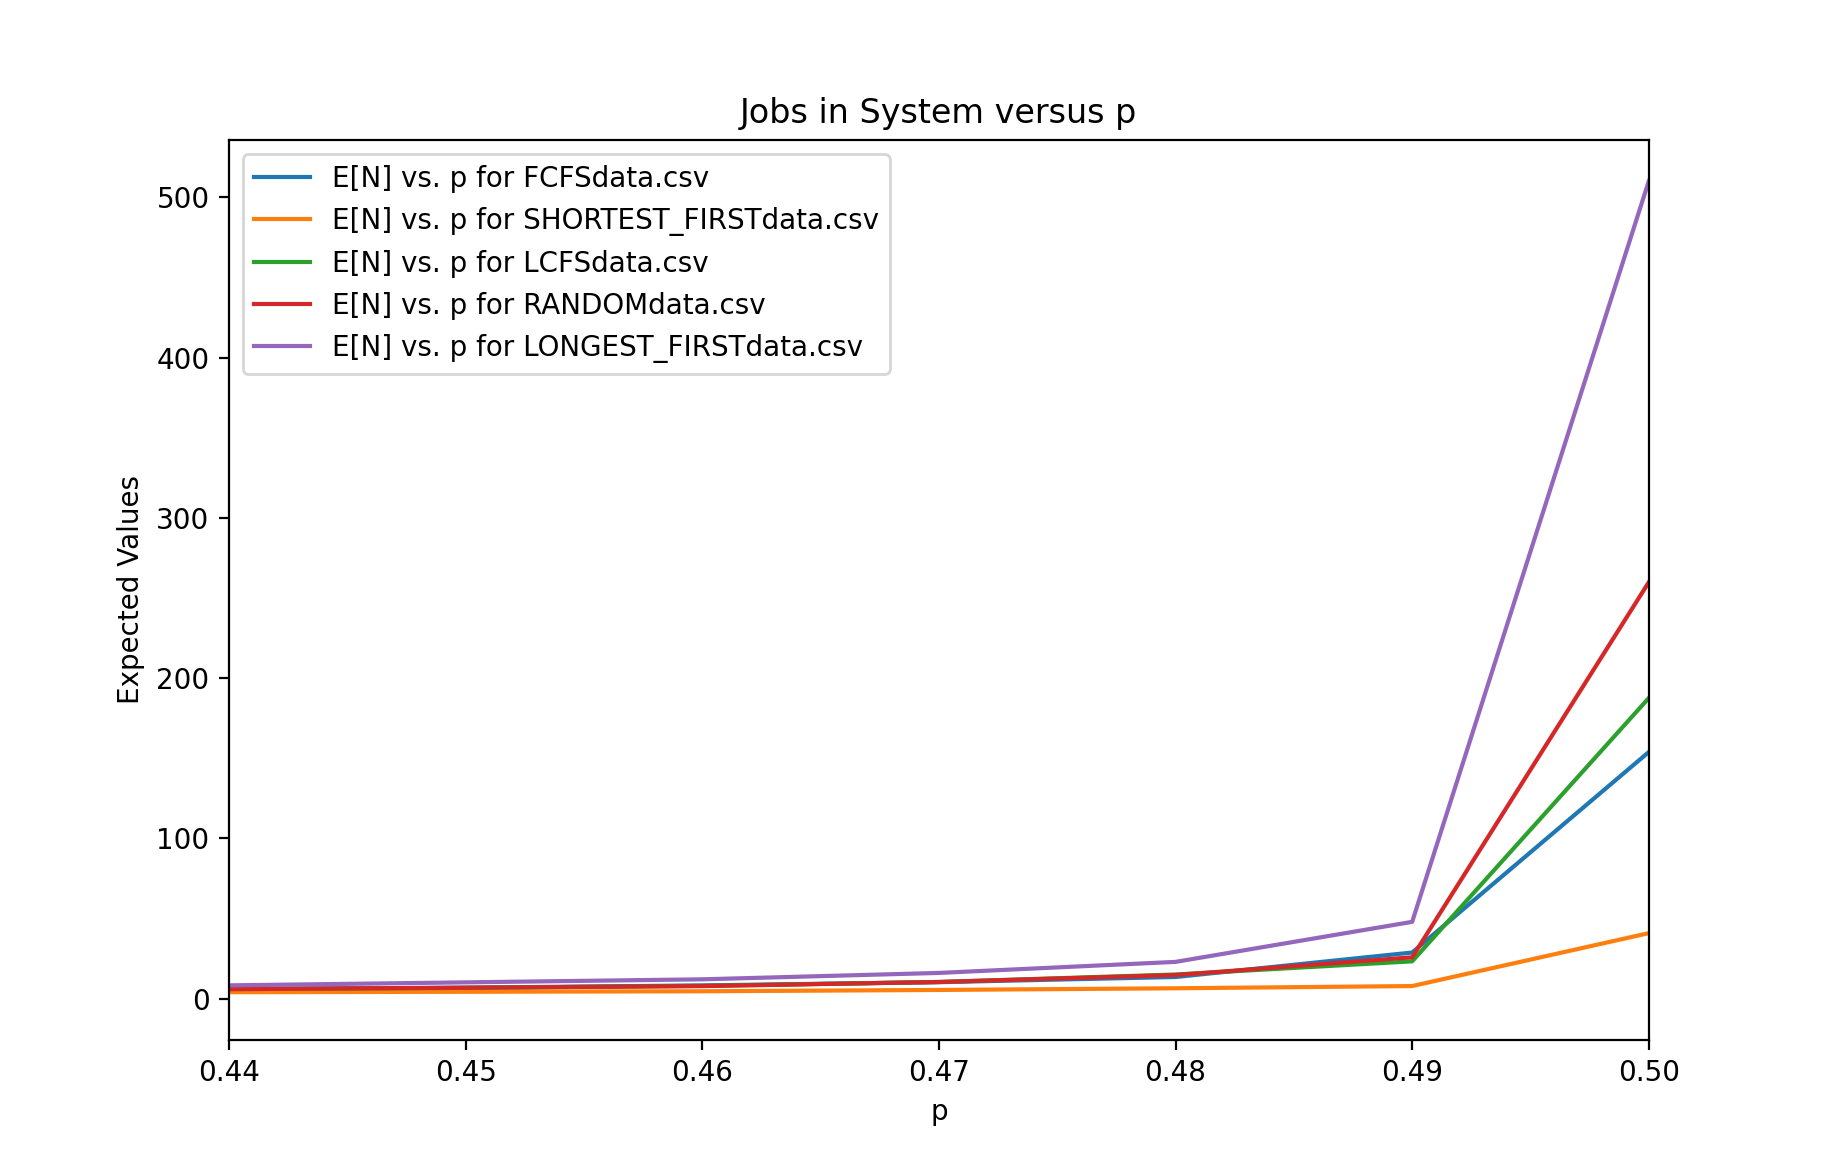
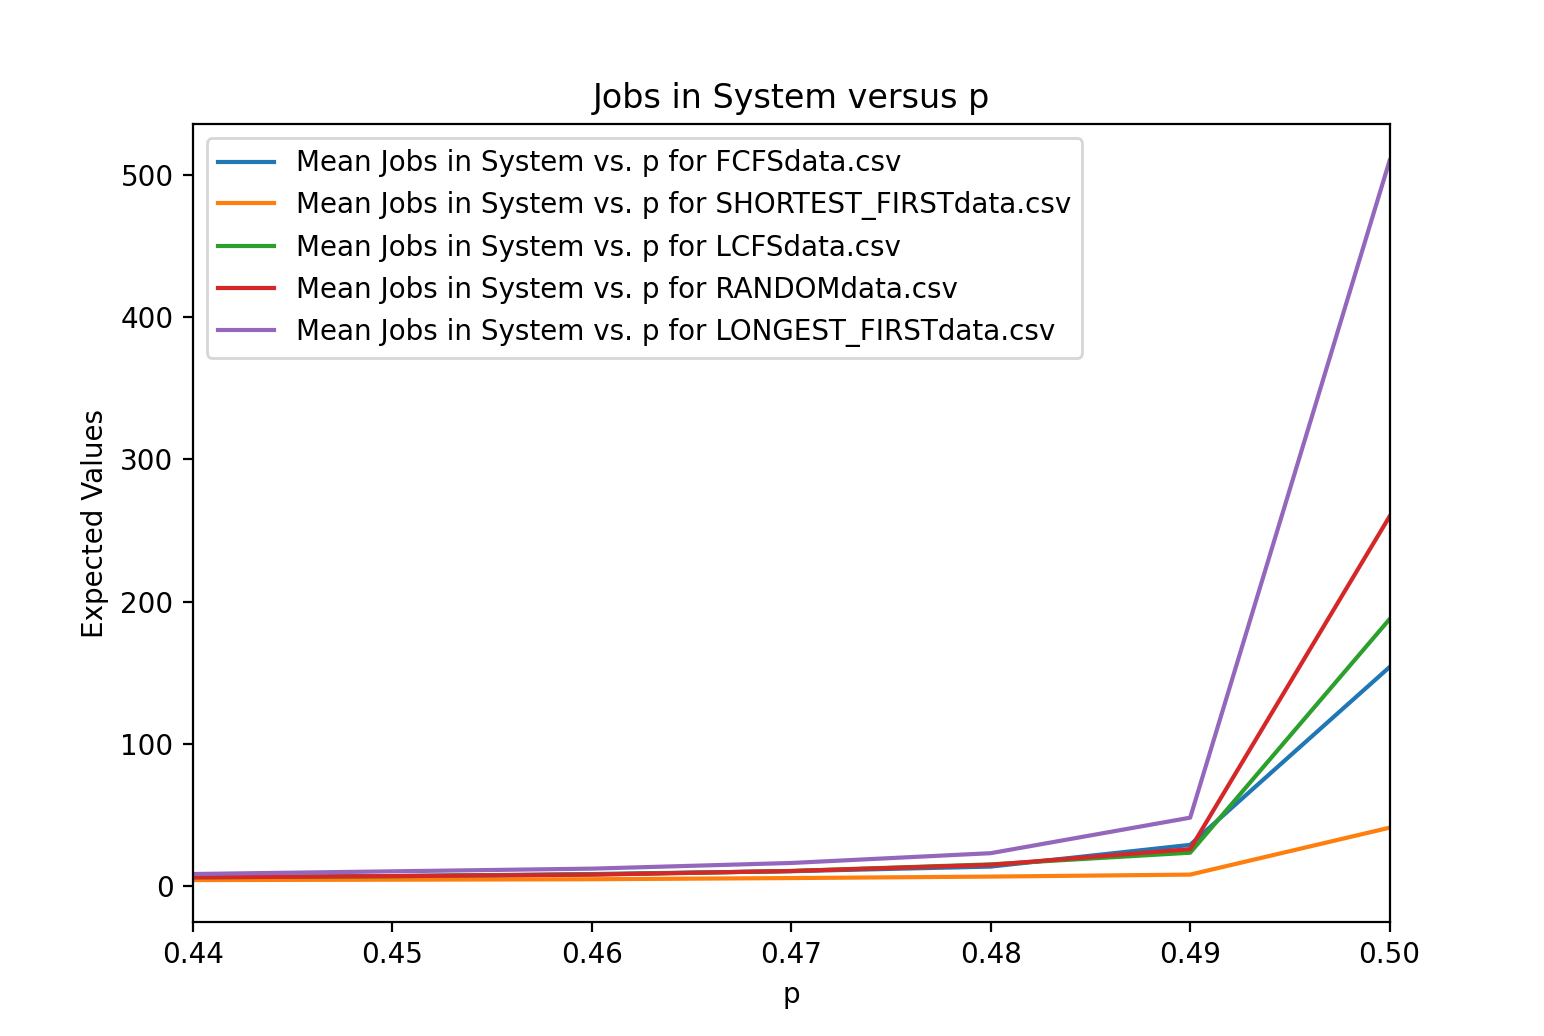
updated graphs

diff --git a/graphing_variance.py b/graphing_variance.py
@@ -1,5 +1,6 @@
 import pandas as pd
 import matplotlib.pyplot as plt
+import numpy as np
 import re
 
 
@@ -12,9 +13,12 @@ table_data = pd.DataFrame(columns=['Policy','Variance (*100,000)'])
 for fname in sublist:
     
     data = pd.read_csv(fname,squeeze=True)
-    var = (data.var()/100000).round(3)
+    #var = (data.var()/100000).round(3)
+    cv = lambda x: np.std(x, ddof=1) / np.mean(x) * 100 
     
-    table_data = table_data.append({'Policy':re.sub('_variance.csv','',fname),'Variance (*100,000)':var},ignore_index=True)
+    a = cv(data)
+
+    table_data = table_data.append({'Policy':re.sub('_variance.csv','',fname),'Variance (*100,000)':a},ignore_index=True)
 
 print(table_data)
 fig,ax = plt.subplots()

diff --git a/graphing.py b/graphing.py
@@ -6,7 +6,7 @@ import matplotlib.pyplot as plt
 import glob
 path = "*.csv"
 print (glob.glob(path))
-sublist = [file for file in glob.glob(path)]
+sublist = [file for file in glob.glob(path) if not "var" in file]
 for fname in sublist:
     
         
@@ -16,8 +16,8 @@ for fname in sublist:
     E_N = data['E[N]']
     #E_T = data['E[T]']
 
-    labelN = "E[N] vs. p for " + fname
-    #labelT = "E[T] vs. p for " + fname
+    labelN = "Mean Jobs in System vs. p for " + fname
+    #labelT = "Mean Response Time vs. p for " + fname
 
     plt.plot(x, E_N, label = labelN)
     #plt.plot(x, E_T, label = labelT)
